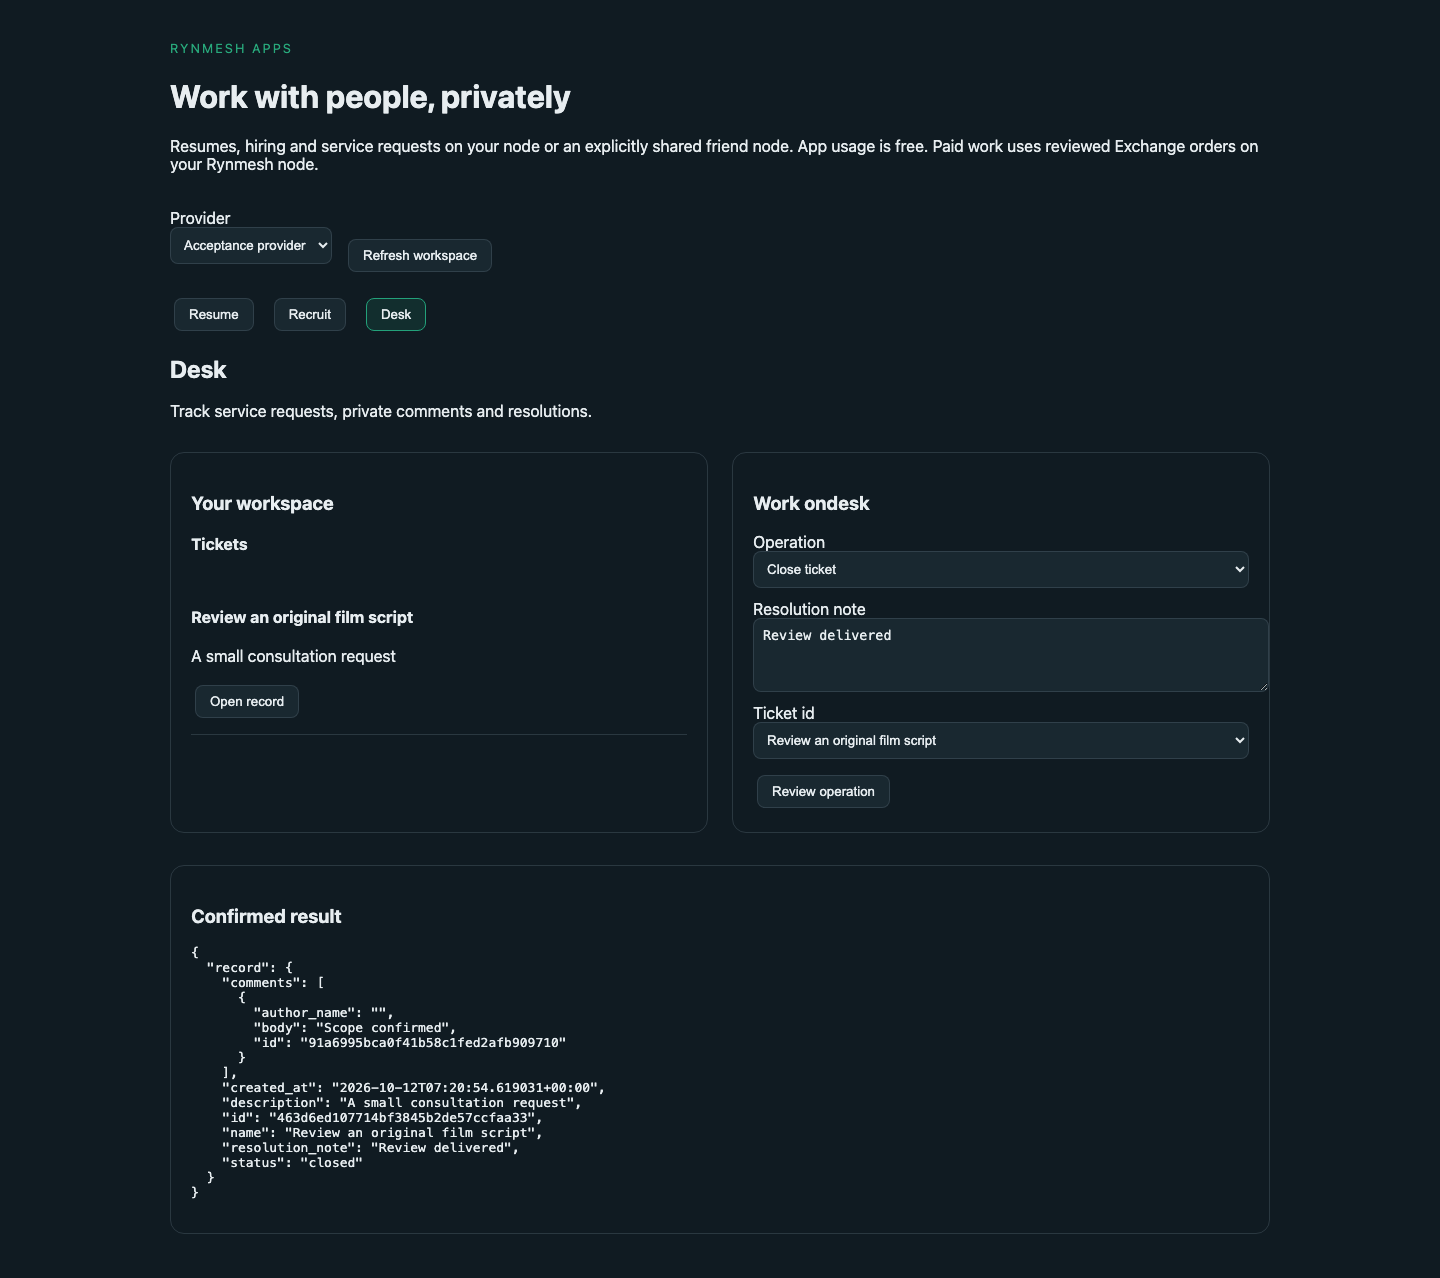
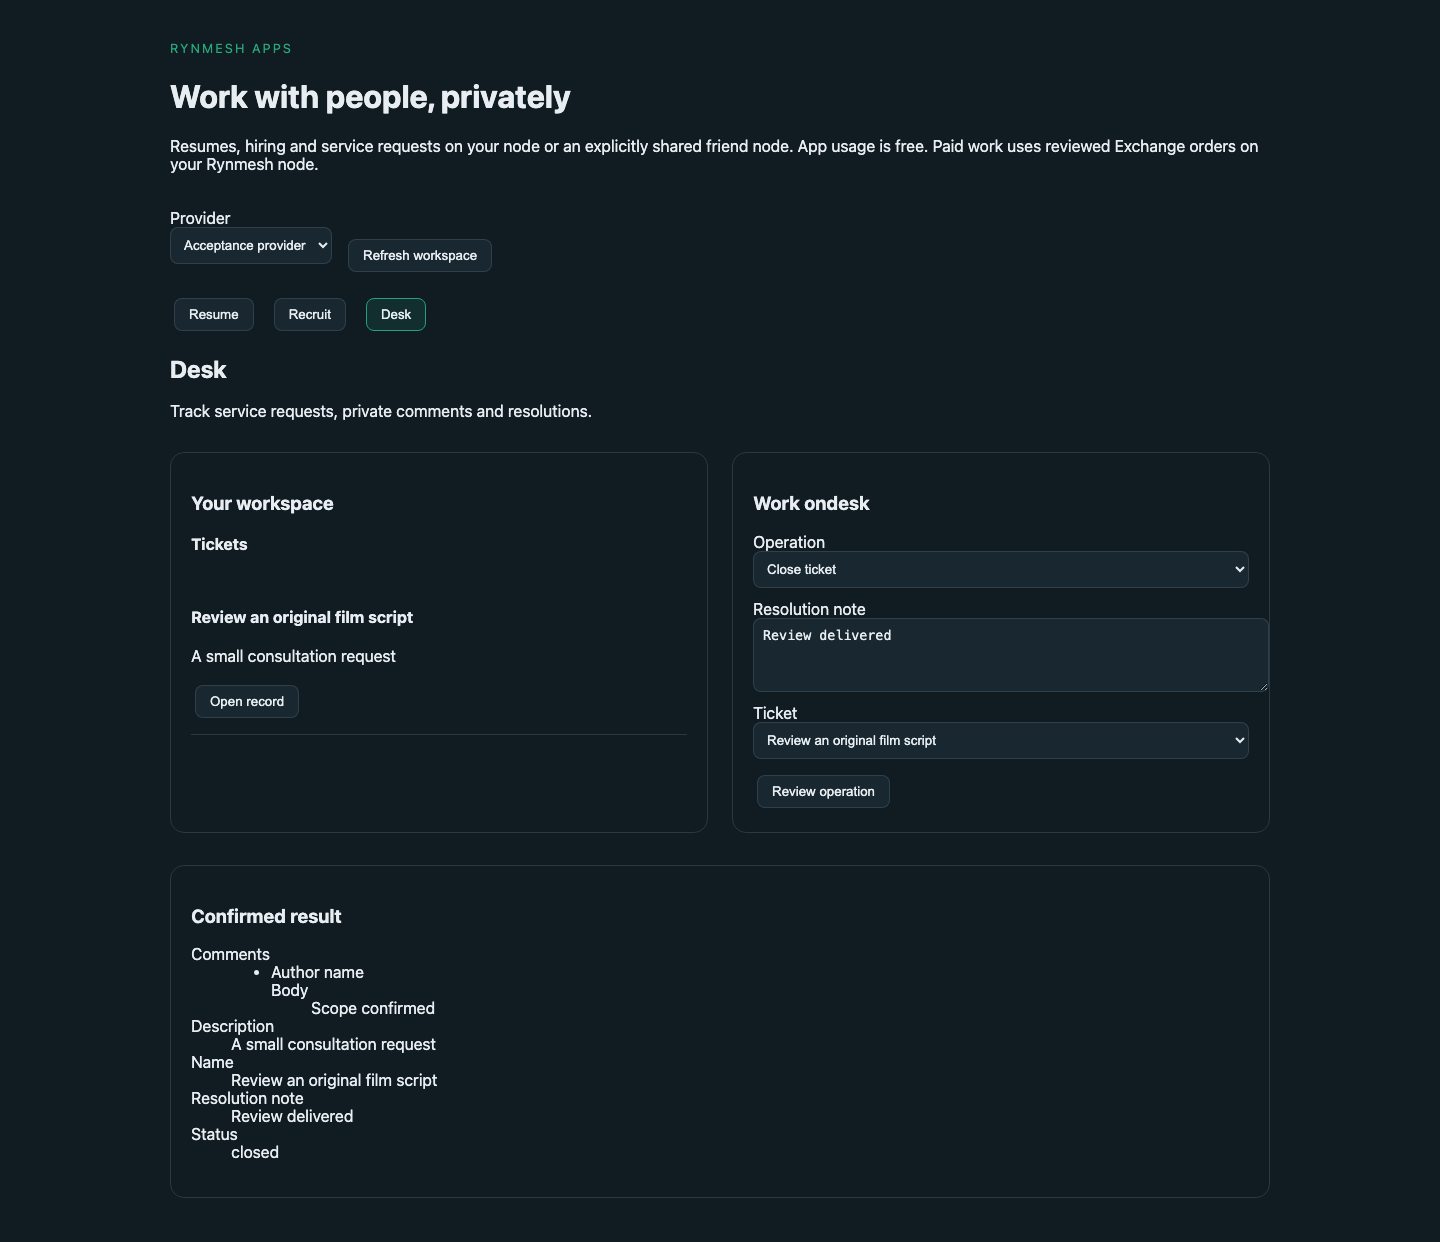
docs(apps): record physical pilot acceptance and local handoff

diff --git a/docs/NODE_APPS_LOCAL_HANDOFF.md b/docs/NODE_APPS_LOCAL_HANDOFF.md
@@ -1,0 +1,44 @@
+# Rynmesh node apps — local pilot handoff, 2026-10-12
+
+This work was explicitly authorized by the owner: review Ziling's update and local Clawpad, migrate useful apps into Rynmesh or an individual node such as MS-2. All coding, testing and packaging ran locally. No cloud coding task, recurring automation or monitoring was created.
+
+## Exact source and status
+
+- Active local repository: `/Users/yeogirlyun/.codex/worktrees/clawpad-node-apps/rynmesh`, branch `codex/clawpad-node-apps`.
+- Installed implementation: `916724512c02994453b807a36eb0b5cd192fcea0`; later commits contain documentation/evidence only.
+- Budget fix: `a4ae97f`. This branch depends on open PR #103 head `c55b9df3dd0a361e2c7a4444a86ba49cac3e47ef`.
+- Primary `/Volumes/ExternalSSD/rynmesh` remains clean at `9db06f436e64d87c7060db0934392768c42c8187`. No current change is merged or pushed.
+- Review-only checkout: `/Users/yeogirlyun/.codex/worktrees/ziling-pr103-review/rynmesh`.
+- Clawpad `/Volumes/ExternalSSD/clawpad` was reviewed at `1bf21d840`; its existing uncommitted work was preserved.
[1 lines of base64/hex data omitted]
+
+## Using the apps
+
+On MS-1, open `http://127.0.0.1:8796/apps`. Owner browser operations must follow the display rules: Dev Display for this non-account app; never open a browser on the main display. Select MS-2 Apps as provider, then Resume, Recruit or Desk. Each starts empty. Review the exact action before confirming it. Resume supports sections, experience, cover letters and Markdown export; Recruit supports jobs and candidate stage progression; Desk supports requests, comments and resolution. A lost reply appears as a pending original operation; use explicit Resume to recover the same operation without duplication.
+
+Both nodes have separate pilot identities, paired through the existing authenticated friend protocol. MS-2 shares all three apps only with the new MS-1 identity. It does not share the provider's local workspace. Hosted records are processed by MS-2, whose operator possesses the storage keys. These are private workspaces, not public job advertisements, consultant discovery or marketplace listings.
+
+The standalone hosts expose app UI, owner-gated app/friend APIs and authenticated peer app transport. They start no model, registry, assistant, Exchange or polling worker. The assistant tools are implemented and tested in the integrated Rynmesh source, but are not running on these standalone hosts. Usage and platform commission are zero. A Recruit budget records a Ryncoin quote; it does not transfer coins. Paid transactions still require the existing full-node Exchange workflow.
+
+## Physical deployment
+
+| Host | Separate installation root | Observed endpoint | Initial app PID |
+| --- | --- | --- | --- |
+| MS-1.local | `/Users/yeogirlyun/Library/Application Support/RynmeshApps/pilot-20261012/ms1` | `http://172.30.1.5:8796` | 54554 |
+| MS-2.local | `/Users/yeogirlyun/Library/Application Support/RynmeshApps/pilot-20261012/ms2` | `http://172.30.1.9:8795` | 14545 |
+
+Each root contains its own `venv`, `node` home, installed wheel, `source-manifest.json`, `service.json` and `service.log`. All 250 installed Python module hashes matched the source manifest before startup. Addresses and PIDs are observations, not permanent identifiers: inspect the current process command and listener before any lifecycle action. Use the owner's canonical `MS-2.local` SSH configuration; do not change its pinned host/direct-link setup.
+
+MS-1's localhost UI is the intended client. Direct remote owner API access requires its bearer token or an authenticated session; opening the MS-2 URL remotely alone is insufficient. There is no new remote browser login UI. Manage MS-2 via canonical SSH and its localhost API, or use the browser locally on that host following its display policy. Owner tokens remain in the private node home and must never be printed, copied into reports or placed in URLs. Remote peer app access uses the paired identity and explicit app grants, not owner tokens.
+
+No ordinary `.rynmesh` home, existing app, credentials, firewall or launch settings were changed. No launchd, cron or automatic restart is installed. If a pilot process exits or the machine restarts, the apps will be unavailable until a deliberate local lifecycle action. Do not run the launcher again blindly: it rejects an existing deployment record and port. Preserve the original node home, identities, encrypted intents and receipts when recovering; resetting them would break pending-operation guarantees. Do not alter existing application/trading services, create recurring checks or enable autostart without explicit owner instruction.
+
+## Verification and remaining review
+
+Final focused regression suite: 573 backend tests passed; frontend: 664 tests passed plus TypeScript/Vite build on Node 22.23.2. Real two-node headless browser workflows passed. Physical MS-1/MS-2 checks passed for pairing, sharing, all three business flows and exact retry without duplicate writes. The installed MS-1 browser selected the real MS-2 provider and showed all three empty owner workspaces. No global UI input, model calls or coin ledger were used. Acceptance tests used a separate temporary identity; it was revoked and its listener stopped. Its encrypted provider records remain as isolated audit evidence.
+
+The wider Mac backend run was not green and did not complete: 48 failed, 670 passed, 21 skipped before stopping. The first fixture's timeout-versus-refused issue reproduces on untouched #103; remaining failures require individual triage. The Ziling review also calls for an origin/license inventory and corrections to merged-versus-proposed feature claims before upstream approval. Read [the review](reviews/ZILING_UPDATE_2026-10-12.md) and [acceptance evidence](acceptance/node-apps-20261012/README.md). This is not a full backend, independent security or live model-provider acceptance.
+
+Pilot limits: 128 KiB per workspace, 64 entries in creation collections/comments, 96 workspaces/grants, and 128 durable operations/intents per workspace/consumer store. There is no automatic archive/rotation or public discovery. Preserve pending original operations; an unavailable provider can leave their outcome unknown.
+
+Future work must continue in the exact local repository above, using this Markdown handoff. Do not delegate to cloud workspaces or run automated follow-ups.

diff --git a/docs/CLAWPAD_NODE_APPS.md b/docs/CLAWPAD_NODE_APPS.md
@@ -6,9 +6,9 @@ The first set is Resume (resume/cover-letter preparation), Recruit (jobs and can
 
 The migration uses Clawpad Resume's bounded pure business methods and selected Recruit/Desk manifest workflows. Rynmesh owns encrypted persistence, authenticated friend transport, per-consumer workspaces, explicit sharing, revision-bound mutation previews and durable idempotent receipts. New workspaces are empty. Each provider authorizes an app separately for an existing friend. Grant changes invalidate old approvals. Remote calls can access only the caller's workspace; provider-local data and other consumers' data are excluded.
 
-Manual UI writes require an exact reviewed preview. Agent writes use the same business boundary and the Ryn assistant approval policy. Provider inference never runs app tools. No scheduler, polling worker, automatic sharing or new currency issuance is added. Hosted app usage is free in this first version; app records do not pretend to be Ryncoin payments. Paid work continues through reviewed Exchange v2 orders and encrypted textual delivery.
+Manual UI writes require an exact reviewed preview. Agent app actions use the same business boundary and always require explicit approval, including private reads and automatic mode. Provider inference never runs app tools. No scheduler, polling worker, automatic sharing or new currency issuance is added. Hosted app usage is free in this first version; app records do not pretend to be Ryncoin payments. Paid work continues through reviewed Exchange v2 orders and encrypted textual delivery.
 
-Acceptance: real Resume drafting/export, job/candidate transitions, ticket/comment/closure workflows; read-only operations leave storage unchanged; ciphertext-only persistence; owner/peer authentication; separate consumers; revocation and stale preview rejection; lost-response retries without duplicate writes; bounded storage; agent approval before mutation; fresh package and real HTTP checks. Physical MS-2 staging uses a separate node home, identity and port, preserving existing services.
+Acceptance: real Resume drafting/export, job/candidate transitions, ticket/comment/closure workflows; disposable workspace views leave business state unchanged; reviewed reads retain audit receipts; ciphertext-only persistence; owner/peer authentication; separate consumers; revocation and stale preview rejection; lost-response retries without duplicate writes; bounded storage; agent approval before mutation; fresh package and real HTTP checks. Physical MS-2 staging uses a separate node home, identity and port, preserving existing services.
 
 This branch builds on the still-open integrated-workspace PR #103 at `c55b9df3dd0a361e2c7a4444a86ba49cac3e47ef`. It is not yet part of merged upstream main. It also fixes the independently reproduced Antigravity missing-usage accounting bug before using that agent integration.
 
@@ -50,4 +50,15 @@ Local branch: `codex/clawpad-node-apps` at `/Users/yeogirlyun/.codex/worktrees/c
 
 A write preview also binds the complete client/catalog workspace context. Preparing a preview does not silently rebase a stale page or agent observation onto newer records. The agent obtains this non-content context from the app capability listing. Any intervening state or grant change requires refresh and a new review.
 
-Local evidence so far: 664 frontend tests pass using Node 22.23.2; 572 focused backend regressions passed before the final context-binding addition, and 27 new/adapter tests pass after it. Headless two-node HTTP browser checks cover all three workflows, pre-write review, reload and Chinese UI, with no page errors, no model calls, no global input and no plaintext in app storage. See `docs/acceptance/node-apps-20261012/`. The wider Mac backend run is not green; its recorded limitations and baseline reproduction are in the Ziling review. Do not describe this as a full-backend or independent security audit.
+Final local evidence: 573 focused backend regressions and 664 frontend tests pass on the final implementation (frontend runtime Node 22.23.2). The focused suite includes all 27 new app/adapter tests. Headless two-node HTTP browser checks cover all three workflows, pre-write review, reload and Chinese UI, with no page errors, no model calls, no global input and no plaintext in app storage. See `docs/acceptance/node-apps-20261012/`. The wider Mac backend run is not green; its recorded limitations and baseline reproduction are in the Ziling review. Do not describe this as a full-backend or independent security audit.
+
+
+## Physical pilot and privacy
+
+The installed source is commit `916724512c02994453b807a36eb0b5cd192fcea0`. All 250 Python modules were hash-verified on both physical hosts. Actual MS-1 → MS-2 pairing, grants, all three workflows and exact retry without duplication passed. A temporary acceptance identity was revoked and its listener stopped. The owner's workspaces remain empty; test records belong to the separate revoked identity and remain encrypted audit evidence.
+
+Open `http://127.0.0.1:8796/apps` on MS-1 and select MS-2 Apps as provider. MS-2 grants the three apps only to the new MS-1 pilot identity. This is a private, bounded first deployment, not public marketplace discovery. The full Ryn assistant integration exists and is tested on this branch; these standalone pilot hosts run only the apps and friend transport. They run neither the assistant nor Exchange settlement. Job budgets are Ryncoin quote records, not debits, balances or payments.
+
+A hosted workspace is processed and retained by the chosen provider node. Transport and storage are encrypted and consumers are isolated, but the provider operator has the keys; this does not hide hosted records from that operator. Draft arguments stay on the consumer until approval. An assistant using app results additionally sends those results to the selected model, identified in its approval preview.
+
+See [the local handoff](NODE_APPS_LOCAL_HANDOFF.md) for exact installed homes, authentication, access and recovery boundaries. No autostart, scheduled monitoring, public release, push or main merge was performed.

diff --git a/docs/reviews/ZILING_UPDATE_2026-10-12.md b/docs/reviews/ZILING_UPDATE_2026-10-12.md
@@ -17,3 +17,25 @@ Follow-up local verification: Node 22.23.2 passes all 664 frontend tests after t
 The broader Mac backend run was stopped after 48 failures, 670 passes and 21 skips (739 completed cases, not a full-suite pass). The first permission-world failure reproduces on the untouched #103 head: its intentionally non-listening localhost port produces a real timeout on this workstation, while `query_cases.py` requires `ConnectionRefusedError`. Removing proxy variables does not change it; the environment has no configured proxy. No firewall/security setting or fixture assertion was weakened to obtain a pass. Other failed frozen/reference-controller cases still require individual baseline/platform triage; they cannot all be claimed to share this cause. Linux CI records and the author's Windows record do not establish Mac full-backend acceptance.
 
 The independently reproduced Antigravity budget bug is fixed on the separate app-integration branch, with tests for missing, malformed, negative, boolean, explicit-zero and partial usage, plus buffered streaming.
+
+
+## Feature-list assessment
+
+The pasted list is broadly supported by code on #103, but it should be presented as a proposed integrated build with explicit limits, rather than all features already merged and accepted on every platform.
+
+| Claimed area | Repo evidence | Review qualification |
+| --- | --- | --- |
+| Assistant entry, task lifecycle, restart recovery | `agent_runtime/runtime.py`, `control.py`, `lifecycle.py`; `webapp/src/screens/RynAgent.tsx` | Implemented task state and controls; focused approval/recovery tests passed. This is bounded tool execution, not permission to do arbitrary actions. |
+| Operation approvals and permissions | `agent_runtime/operation_permissions.py`, `operation_ledger.py`, `resource_writes.py` | Reviews bind object, scope and current permission. Existing allowlisted automatic-write mode must be disclosed. New node-app actions require explicit approval even in that mode. |
+| Files, text/PDF, search and artifacts | `agent_runtime/resource_documents.py`, `resource_writes.py`, `resources.py`; `local_search/` | Scoped resource handling exists. Do not imply unrestricted disk access or support for every binary document. |
+| Model/device/source administration; unified pool and settings | `agent_runtime/tools.py`, `llm_package/model_settings.py`, `sources.py`; `ModelPool*.tsx`, `RynAgentModel.tsx` | Concrete management tools and per-model controls exist. Unknown CLI usage must remain unknown; hard token/output control depends on the adapter. The independently reproduced accounting defect is fixed locally. |
+| Sharing and personal/friend authorization | `agent_runtime/sharing.py`, `llm_package/space_catalog.py`, `friends/`; `ModelPoolSharing.tsx` | Explicit grants and revocation are real contracts. Existing focus tests are evidence; they are not a guarantee of all external provider/account combinations. |
+| Unified AI chat, encrypted history, NAS/article context and references | `ask_ryn/`, `llm_package/chat.py`; `AIWorkspace*.tsx`, `AskRynConversation.tsx` | Repo implements chat/context/storage flows. Documents should distinguish current supported sources, legacy history and live-account verification. |
+| Cloud drives, caching and NAS | `cloud_drives.py`, `drive_cache.py`, `nas.py`; `personal/Drives.tsx`, `Nas.tsx` and cache tests | OAuth/provider adapters and scoped file operations exist. Provider-specific limitations and actual account testing must be stated. No new owner accounts or live uploads were used in this review. |
+| P2P inference and local GGUF | `llm_package/p2p.py`, `p2p_session.py`, `gguf_import.py`, `runtime_native.py` | Transport/session and managed-model paths exist. Qualify platform/connectivity evidence and the single managed GGUF limitation; do not promise every NAT or concurrent model setup. |
+| Personal space, device topology, desktop and languages | `personal_space.py`; `personal/DeviceTopology.tsx`, desktop bridge, localization tests | UI and device-management implementation exists. Headless browser/frontend acceptance does not establish every native tray, startup or browser-login behavior on Mac. |
+| Exchange integration | `exchange/` implementation and tests unchanged from upstream main | Existing v2 alpha is preserved. Fixed-roster availability and unproven AI neutrality remain the protocol's limits. Neither this review nor the app migration adds real-currency conversion or new coin issuance. |
+
+Before upstream approval: include the local Antigravity accounting fix, complete individual Mac failure triage, and supply the origin/license inventory prompted by the screenshot. Update the feature document's merged/proposed status and limitations. These are review/fix requirements, not permission to start deferred product extensions.
+
+Clawpad integration is now concrete on the separate local branch: Resume, Recruit and Desk, 28 bounded operations, explicit friend sharing and private per-consumer workspaces. The installed MS-2 pilot serves those three apps; public job discovery, consultant matching, arbitrary app installation and video generation remain future work. See [migration details](../CLAWPAD_NODE_APPS.md). Final local focused regressions passed 573 backend and 664 frontend tests, plus physical MS-1/MS-2 app acceptance; the wider Mac suite limitation above still applies.

diff --git a/docs/acceptance/node-apps-20261012/README.md b/docs/acceptance/node-apps-20261012/README.md
@@ -1,0 +1,15 @@
+# Node apps acceptance — 2026-10-12
+
+Implementation commit: `916724512c02994453b807a36eb0b5cd192fcea0`. Tests and packaging ran on the owner's local workstation; provider acceptance ran on physical MS-2. No cloud coding or new cloud CI run was used.
+
+- Final focused backend suite: **573 passed**, including the 27 new app/Antigravity adapter cases and agent, sharing, resources, policies, Exchange, web UI and friend regressions.
+- Frontend: **664 passed** in 101 files; TypeScript and Vite production build passed using Node 22.23.2.
+- Ruff and Git whitespace checks passed.
+- `browser-result.json` and Resume/Recruit/Desk/Chinese screenshots: two temporary HTTP nodes, headless real UI workflows, review before writes, reload and language switch. No browser errors, global input, model calls, workers or plaintext app records.
+- `physical-result.json`: real MS-1/MS-2 pairing, app grants, all three workflows and exact retry without duplication. Temporary identity revoked and listener stopped. Owner workspaces remain empty; test records stay encrypted under the separate revoked identity.
+- `installed-browser-result.json` and `installed-ms1-ms2.png`: installed-wheel MS-1 UI selected actual MS-2; all three owner workspaces empty; no browser errors or global input. This smoke test was read-only.
[1 lines of base64/hex data omitted]
+
+No actual model-provider calls, Ryncoin transfers or coin ledger creation were required. The installed hosts run only apps and authenticated friends, not the assistant or Exchange. They have no automatic startup or monitoring.
+
+The wider Mac backend attempt did not complete and was not green (48 failed, 670 passed, 21 skipped before stopping). See [Ziling's review](../../reviews/ZILING_UPDATE_2026-10-12.md) for the reproduced original-head fixture issue and remaining triage. These records do not establish full-backend, public-network, independent security or model-neutrality acceptance.
